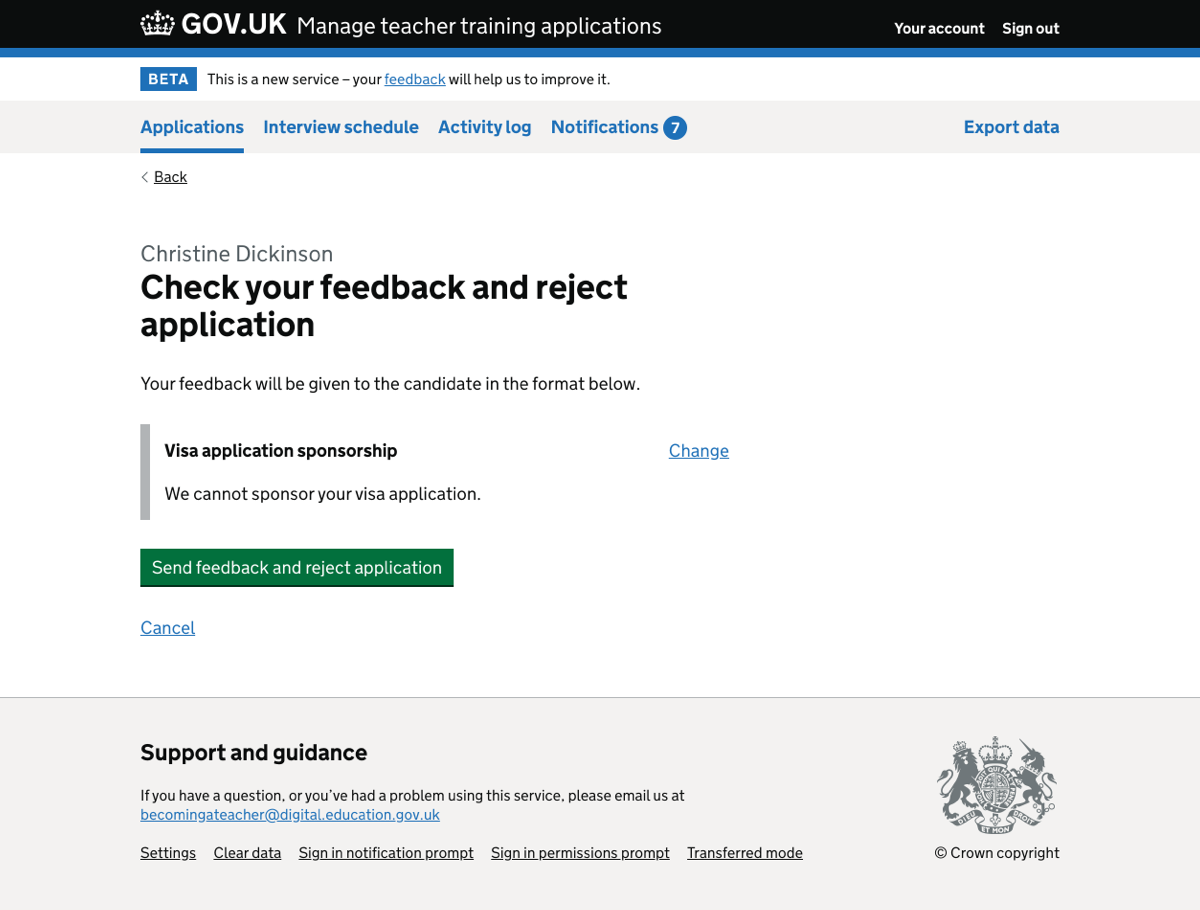
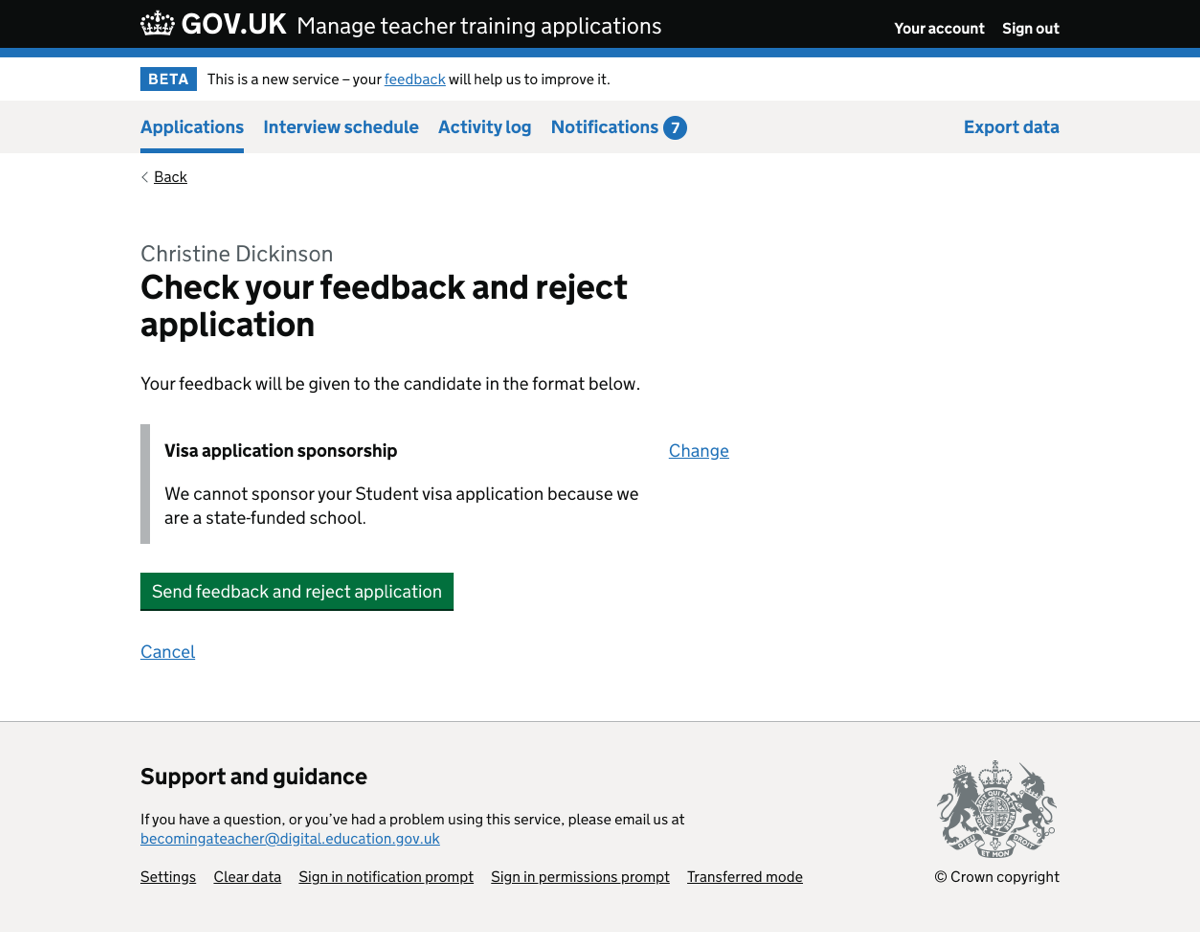
Update images

diff --git a/app/posts/manage-teacher-training-applications/2021-04-19-reason-for-rejection-cannot-sponsor-visa.md b/app/posts/manage-teacher-training-applications/2021-04-19-reason-for-rejection-cannot-sponsor-visa.md
@@ -23,7 +23,12 @@ Looking at the candidate data, we can see who is likely to receive this reason f
   items: [{
     text: "Reasons for rejecting the candidate’s application",
     img: {
-      src: "reason-for-rejection-cannot-sponsor-visa-01.png"
+      src: "reason-for-rejection-cannot-sponsor-visa-01a.png"
+    }
+  }, {
+    text: "Reasons for rejecting the candidate’s application - cannot sponsor visa",
+    img: {
+      src: "reason-for-rejection-cannot-sponsor-visa-01b.png"
     }
   }, {
     text: "Check your feedback and reject application",
